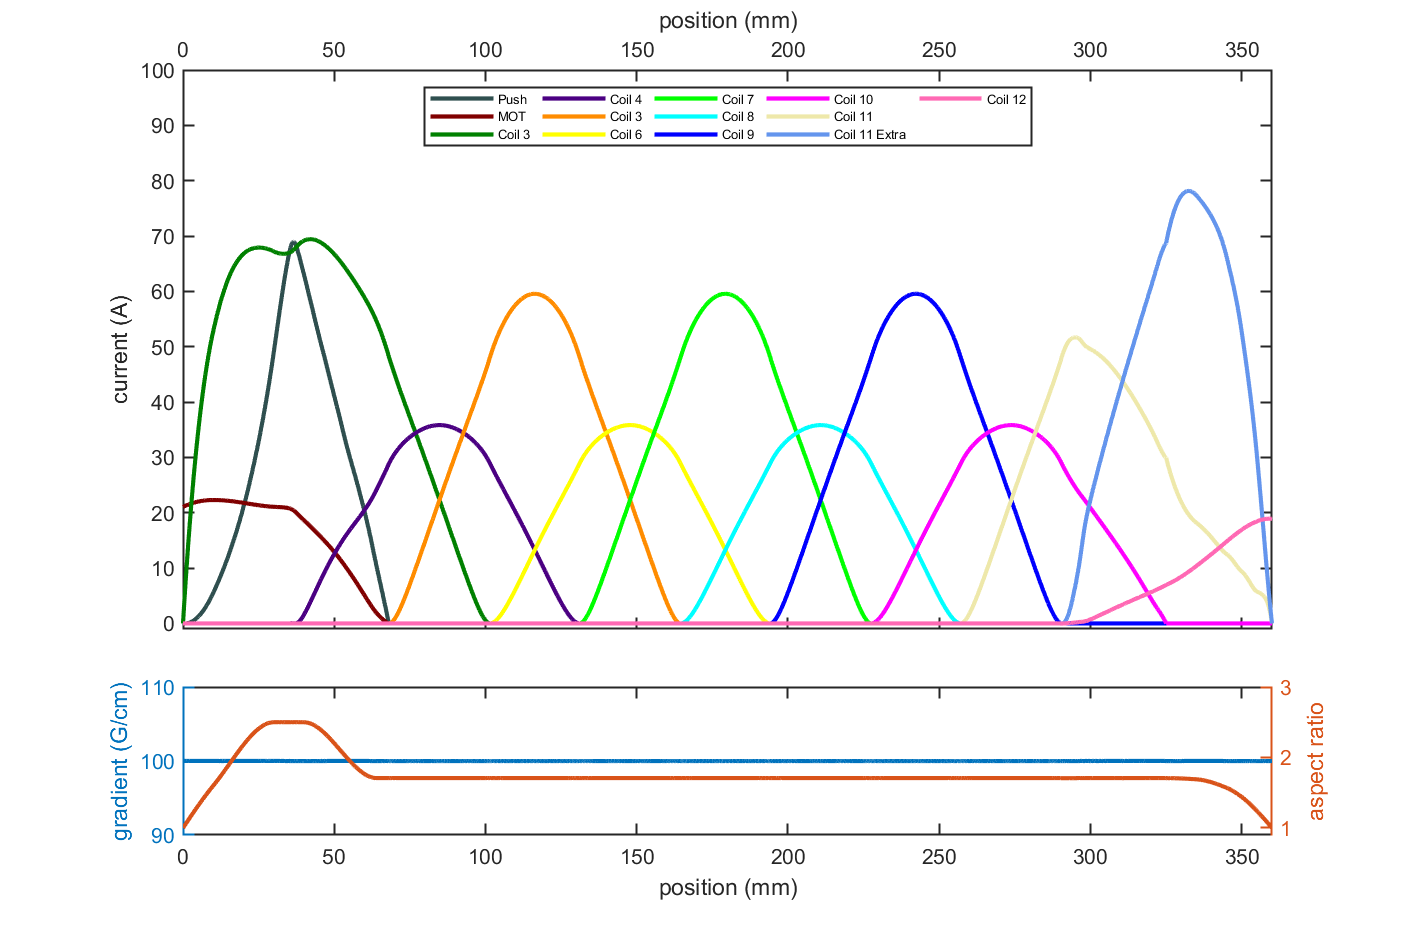
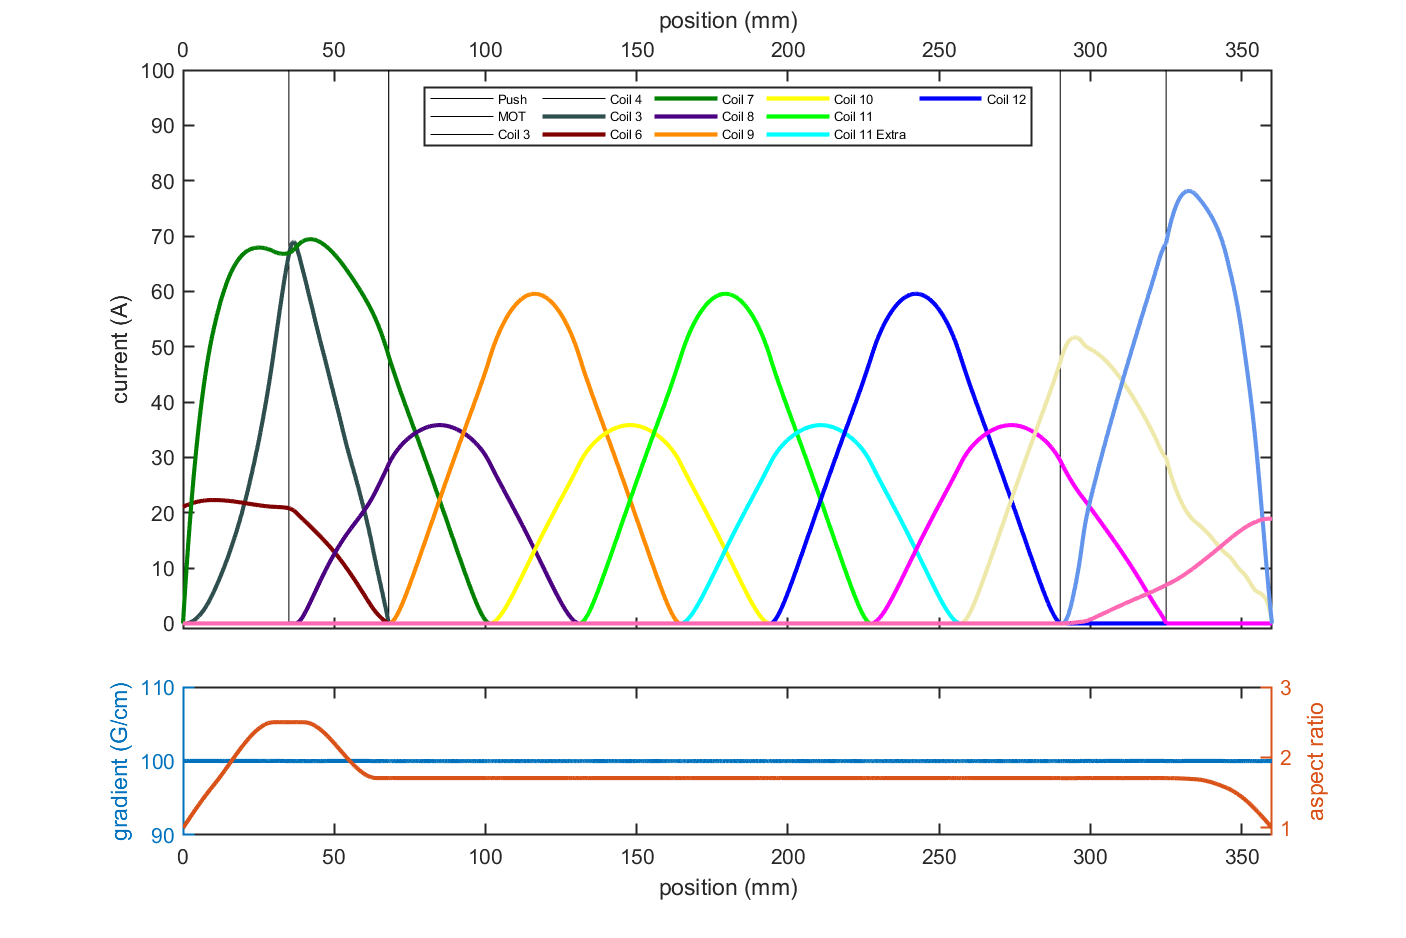
updates

diff --git a/calculate_horizontal_transport.m b/calculate_horizontal_transport.m
@@ -208,6 +208,9 @@ calculate_horizontal_transport_zone_4;
 % object
 
 xq_p = [xq1 xq2 xq3 xq4 xq5];
+
+zone_edges = [xq1(end) xq2(end) xq3(end) xq4(end)];
+
 I_mat_zone_1_p = [I_mat_zone_1; zeros(10,size(I_mat_zone_1,2))];
 I_mat_zone_2_p = [I_mat_zone_2; zeros(9,size(I_mat_zone_2,2))];
 
@@ -287,6 +290,11 @@ clf
 c= get(gca,'colororder');
 subplot(4,1,[1 2 3]);
 legStr={};
+ps=[];
+for ii=1:4
+    plot(1e3*zone_edges(ii)*[1 1],[0 100],'k-');hold on
+end
+
 for kk=1:13
     legStr{kk}=coils(kk).Name;
 
@@ -294,10 +302,12 @@ plot(X_out*1e3,I_out(kk,:),'color',co(kk,:),'linewidth',2); hold on
 end
 xlim([X_out(1) X_out(end)]*1e3)
 ylabel('current (A)');
-legend(legStr,'fontsize',6,'location','north','numcolumns',5);
+legend(ps,legStr,'fontsize',6,'location','north','numcolumns',5);
 xlabel('position (mm)');
 set(gca,'box','on','linewidth',1,'fontsize',10,'xaxislocation','top');
 ylim([-1 100]);
+
+
 
 subplot(4,1,[4]);
 yyaxis left

diff --git a/makeHorizontalCoils.m b/makeHorizontalCoils.m
@@ -159,7 +159,7 @@ c11_extra.Nrad = 22;
 c11_extra.Nax = 2;
 c11_extra.WireDim = [1.02 2.29]*1e-3;
 c11_extra.InnerSeparation = 87*1e-3;
-c11_extra.Position = 318*1e-3; % dave says 318, but I disagree
+c11_extra.Position = 318*1e-3; 
 
 %% Coil 12
 
